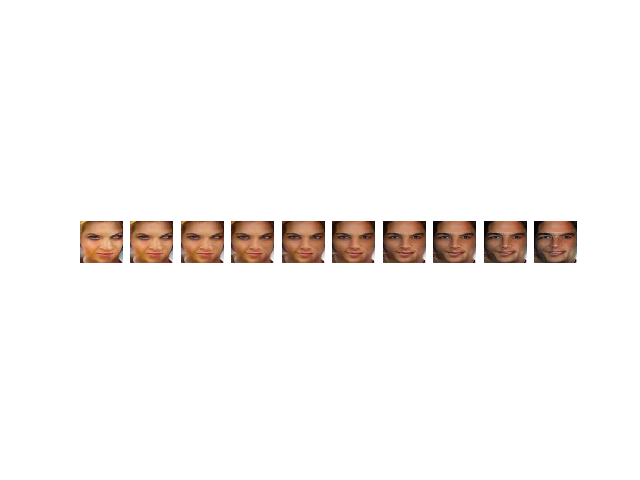
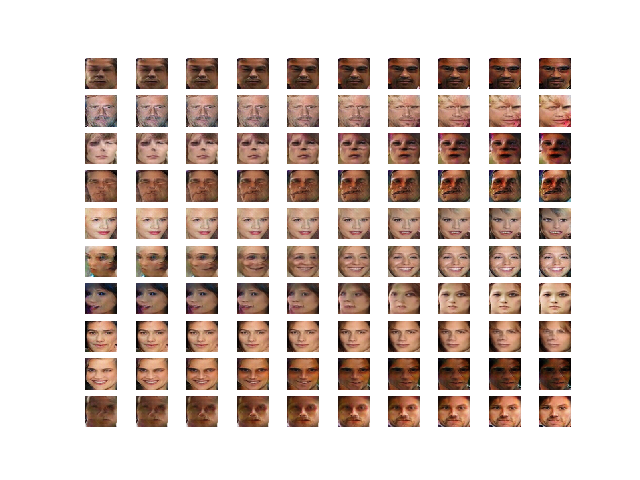
Multi interpolaation faces

diff --git a/interpolate_faces.py b/interpolate_faces.py
@@ -29,9 +29,9 @@ def interpolate_points(p1, p2, n_steps=10):
 # create a plot of generated images
 def plot_generated(examples, n, filepath):
 	# plot images
-	for i in range(n):
+	for i in range(n * n):
 		# define subplot
-		pyplot.subplot(1, n, 1 + i)
+		pyplot.subplot(n, n, 1 + i)
 		# turn off axis
 		pyplot.axis('off')
 		# plot raw pixel data
